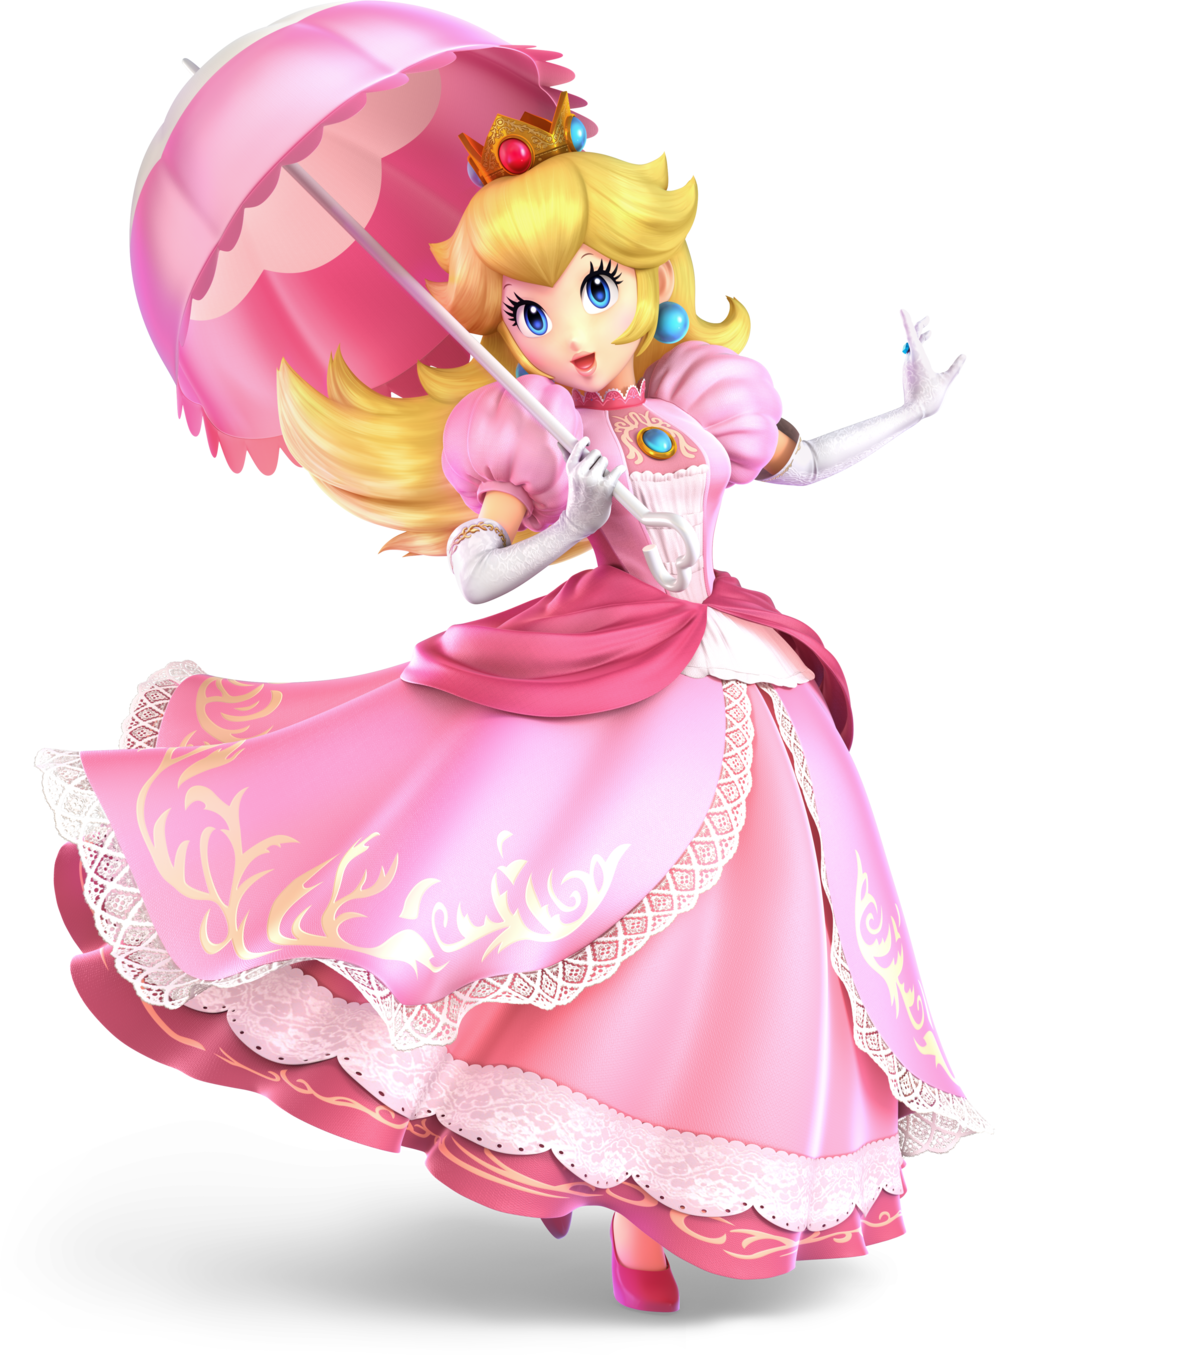
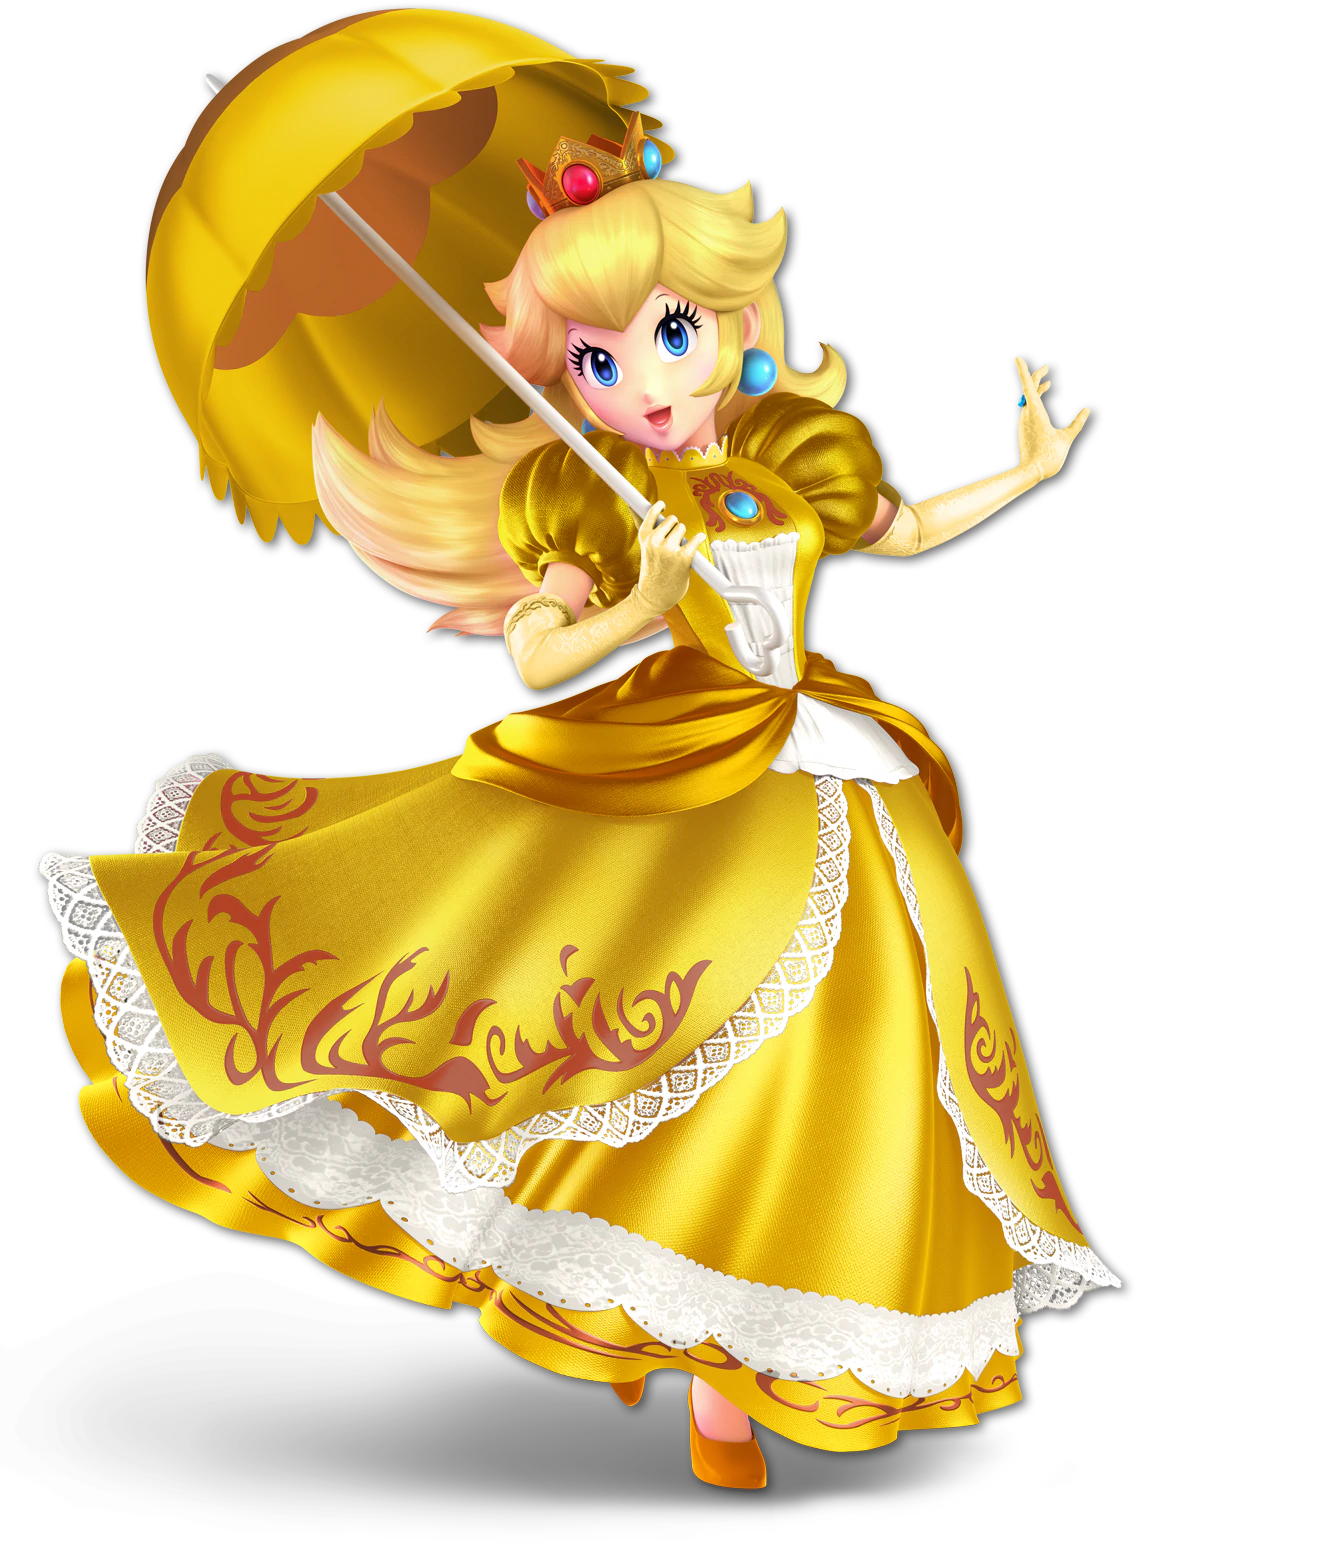
adicionado um nova imagem pra peach e quanto seleciona o personagem do jogador-2

diff --git a/src/css/style.css b/src/css/style.css
@@ -129,7 +129,7 @@ main{
 
 .selecao-de-personagens .lista-de-personagens .jogardor-2-selecionado:hover{
     transform: scale(1.07);
-    animation: c-glowing-red .3s ease-in-out infinite;
+    animation: c-glowing-blue .3s ease-in-out infinite;
     animation-direction: alternate;
     z-index: 2;
 }
@@ -146,7 +146,9 @@ main{
     animation-direction: alternate;
 }
 
+
 .selecao-de-personagens .lista-de-personagens .selecionado .tag{
+    left: 5px;
     display: block;
     color: var(--cor-azul-media);
     animation: text-glowing-blue .3s ease-in-out infinite;
@@ -154,9 +156,30 @@ main{
 }
 
 .selecao-de-personagens .lista-de-personagens .jogardor-2-selecionado .tag{
+    right: 5px;
     display: block;
     color: var(--cor-vermelha-fraca);
     animation: text-glowing-red .3s ease-in-out infinite;
     animation-direction: alternate;
 }
 
+.selecao-de-personagens .lista-de-personagens .jogardor-2-selecionado .tag2{
+    display: none;
+    font-family: 'times New Roman', Times, serif;
+    position: absolute;
+    top: 5px;
+    right: 5px;
+    color: var(--cor-azul-media);
+    transition: opacity .3 ease-in-out;
+    animation: text-glowing-blue .3s ease-in-out infinite;
+    animation-direction: alternate;
+}
+
+
+
+.selecao-de-personagens .lista-de-personagens .jogardor-2-selecionado.selecionado .tag2{
+    display: block;
+    color: var(--cor-azul-media);
+    animation: text-glowing-blue .3s ease-in-out infinite;
+    animation-direction: alternate;
+}

diff --git a/index.html b/index.html
@@ -31,7 +31,7 @@
             </div>
 
             <ul class="lista-de-personagens">
-                <li class="personagem selecionado " id="mario" data-nome="Mario">
+                <li class="personagem selecionado  " id="mario" data-nome="Mario">
                     <span class="tag">1P</span>
                     <img src="src/img/mario.jpg" alt="Personagem Mario">
                 </li>
@@ -56,7 +56,8 @@
                 </li>
 
                 <li class="personagem jogardor-2-selecionado" id="peach" data-nome="Peach">
-                    <span class="tag">1P</span>
+                    <span class="tag">2P</span>
+                    <span class="tag2">1P</span>
                     <img src="src/img/peach.jpg" alt="Personagem Peach">
                 </li>
 
@@ -78,7 +79,7 @@
             
 
             <div class="personagem-grande personagem-jogador-2">
-                <img src="src/img/peach.png" alt="personagem selecao jogador 2" id="personagem-jogador-2">
+                <img src="src/img/peach1.png" alt="personagem selecao jogador 2" id="personagem-jogador-2">
                 <div class="nome">
                     <h2>Peach</h2>
                 </div>

diff --git a/src/js/index.js b/src/js/index.js
@@ -3,6 +3,8 @@ const painelDeSelecaoDePersonagem = document.querySelectorAll('.personagem')
 painelDeSelecaoDePersonagem.forEach(personagem => {
 
     personagem.addEventListener("mouseenter", () => {
+
+         
         
         const personagemSelecionado = document.querySelector(".selecionado")
         personagemSelecionado.classList.remove("selecionado")
@@ -17,6 +19,7 @@ painelDeSelecaoDePersonagem.forEach(personagem => {
         const iamgemDoPersonagemDoJogador1 = document.getElementById("personagem-jogador-1")
         iamgemDoPersonagemDoJogador1.src = `src/img/${idPersonagemSelecionado}.png`
         
+
     })
 }) 
 
